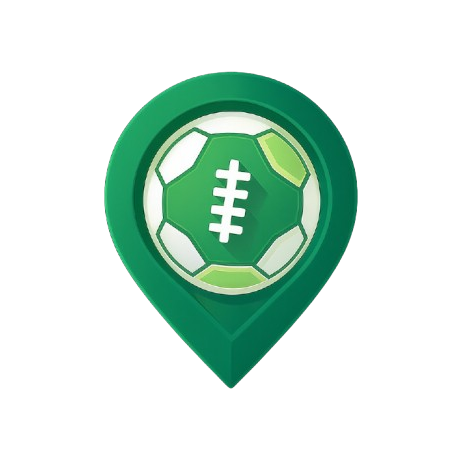
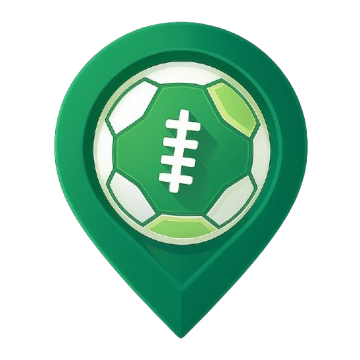
Field pages added using params

diff --git a/app/fields/page.tsx b/app/fields/page.tsx
@@ -1,5 +1,7 @@
 import Image from "next/image";
 import { getFields } from "../_services/dataService";
+import Link from "next/link";
+import { FaArrowRight } from "react-icons/fa";
 
 export const metadata = {
   title: "Fields",
@@ -34,7 +36,7 @@ const Page = async () => {
                 alt={`${field.name} image`}
               />
               <div className="p-5 relative w-full">
-                <p className="text-4xl text-secondary-800">{field.name}</p>
+                <p className="text-4xl text-secondary-700">{field.name}</p>
                 <p className="absolute bottom-5 right-5 text-primary-200 text-4xl font-medium">
                   ${field.price}
                   <span className="text-primary-300 text-lg"> / hour</span>
@@ -42,9 +44,13 @@ const Page = async () => {
               </div>
             </div>
             <div className="border-t border-primary-900 flex justify-end">
-              <button className="text-md px-7 py-4 border-l border-primary-900 cursor-pointer hover:bg-secondary-900 transition-colors duration-300">
-                Reservation
-              </button>
+              <Link
+                href={`/fields/${field.id}`}
+                className="flex gap-2 items-center text-md px-7 py-4 border-l border-primary-900 cursor-pointer hover:bg-secondary-900 transition-colors duration-300"
+              >
+                More Info & Reservation
+                <FaArrowRight />
+              </Link>
             </div>
           </div>
         ))}

diff --git a/app/layout.tsx b/app/layout.tsx
@@ -35,3 +35,51 @@ export default function RootLayout({
     </html>
   );
 }
+
+
+
+// Field Information
+
+// Field name / number (e.g., "Arena 1" or "Central Turf")
+
+// Location (address, map link, maybe Google Maps embed)
+
+// Surface type (natural grass, artificial turf, futsal court, etc.)
+
+// Field size / type (5-a-side, 7-a-side, 11-a-side)
+
+// Lighting (day only / night lighting available)
+
+// Facilities (showers, locker rooms, parking, seating)
+
+// 💰 Pricing & Booking
+
+// Price per hour (and whether it changes by time/day)
+
+// Available time slots (calendar or booking schedule)
+
+// Booking duration rules (minimum/maximum time per booking)
+
+// Cancellation policy
+
+// 📸 Media & Visuals
+
+// Photos of the field (and facilities)
+
+// Virtual tour / short video (optional, but engaging)
+
+// 👥 Extra Details
+
+// Capacity (how many players can comfortably play)
+
+// Equipment availability (balls, bibs, goals, nets)
+
+// Services (referee, coach, refreshments)
+
+// ⚡ Nice-to-have (but optional)
+
+// User reviews & ratings
+
+// Upcoming tournaments or leagues
+
+// Special offers / memberships

diff --git a/app/fields/[fieldId]/page.tsx b/app/fields/[fieldId]/page.tsx
@@ -1,0 +1,26 @@
+import { getField, getFields } from "@/app/_services/dataService";
+import { FieldParams } from "@/app/_types/fields";
+
+export async function generateMetadata({ params }: FieldParams) {
+  const { name } = await getField(params.fieldId);
+  return {
+    title: name,
+  };
+}
+
+export async function generateStaticParams() {
+  const fields = await getFields();
+
+  const ids = fields?.map((field) => ({
+    fieldId: String(field.id),
+  }));
+  return ids;
+}
+
+const Page = async ({ params }: FieldParams) => {
+  const field = await getField(params.fieldId);
+  
+  return <div>{field.name}</div>;
+};
+
+export default Page;

diff --git a/app/_services/dataService.ts b/app/_services/dataService.ts
@@ -1,9 +1,23 @@
+import { notFound } from "next/navigation";
 import { supabase } from "./supabase";
 
 export const getFields = async () => {
   const { data, error } = await supabase.from("fields").select("*");
   if (error) {
     console.log(error.message);
+  }
+  return data;
+};
+
+export const getField = async (id: number) => {
+  const { data, error } = await supabase
+    .from("fields")
+    .select("*")
+    .eq("id", id)
+    .single();
+
+  if (error) {
+    notFound();
   }
   return data;
 };

diff --git a/app/_components/Navbar.tsx b/app/_components/Navbar.tsx
@@ -3,8 +3,8 @@ import Navigation from "./Navigation";
 
 const Navbar = () => {
   return (
-    <nav className="border-b border-primary-900 relative">
-      <div className="flex items-center justify-between max-w-6xl mx-auto py-2">
+    <nav className="border-b border-primary-900 relative px-8">
+      <div className="flex items-center justify-between max-w-6xl mx-auto py-3">
         <Logo />
         <Navigation />
       </div>

diff --git a/app/_components/Logo.tsx b/app/_components/Logo.tsx
@@ -5,7 +5,7 @@ import Link from "next/link";
 const Logo = () => {
   return (
     <Link href={"/"} className="flex items-center relative z-10">
-      <Image src={logo} width={80} height={80} alt="App logo" />
+      <Image src={logo} width={60} height={60} alt="App logo" />
       <p className="w-[50%] text-xl text-primary-100">Fieldify</p>
     </Link>
   );

diff --git a/app/_types/fields.ts b/app/_types/fields.ts
@@ -1,0 +1,5 @@
+export interface FieldParams {
+  params: {
+    fieldId: number;
+  };
+}
